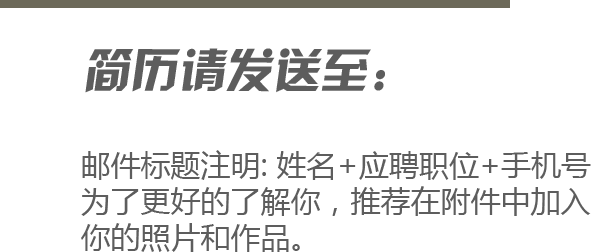
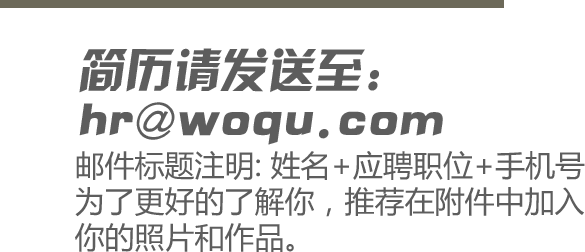
m

diff --git a/index.html b/index.html
@@ -100,8 +100,7 @@
 				</section>
 				<section class="page">
 					<div class="email_wrapper">
-						<img src="img/send.png" class="send">
-						<img data-animation="slideToRight" data-timing-function="ease-in" src="img/email.png" class="email">
+						<img data-animation="slideToBottom" data-timing-function="ease-in" src="img/send.png" class="send">
 					</div>
 				</section>
 			</div>

diff --git a/css/zhaopin.css b/css/zhaopin.css
@@ -33,4 +33,3 @@
 
 .email_wrapper {background-color: #fee801;width: 100%;height: 100%;}
 .send {width: 92.5%;padding-top: 30%;}
-.email {position: absolute;top: 30%;left: 12%;width: 58.75%;}
